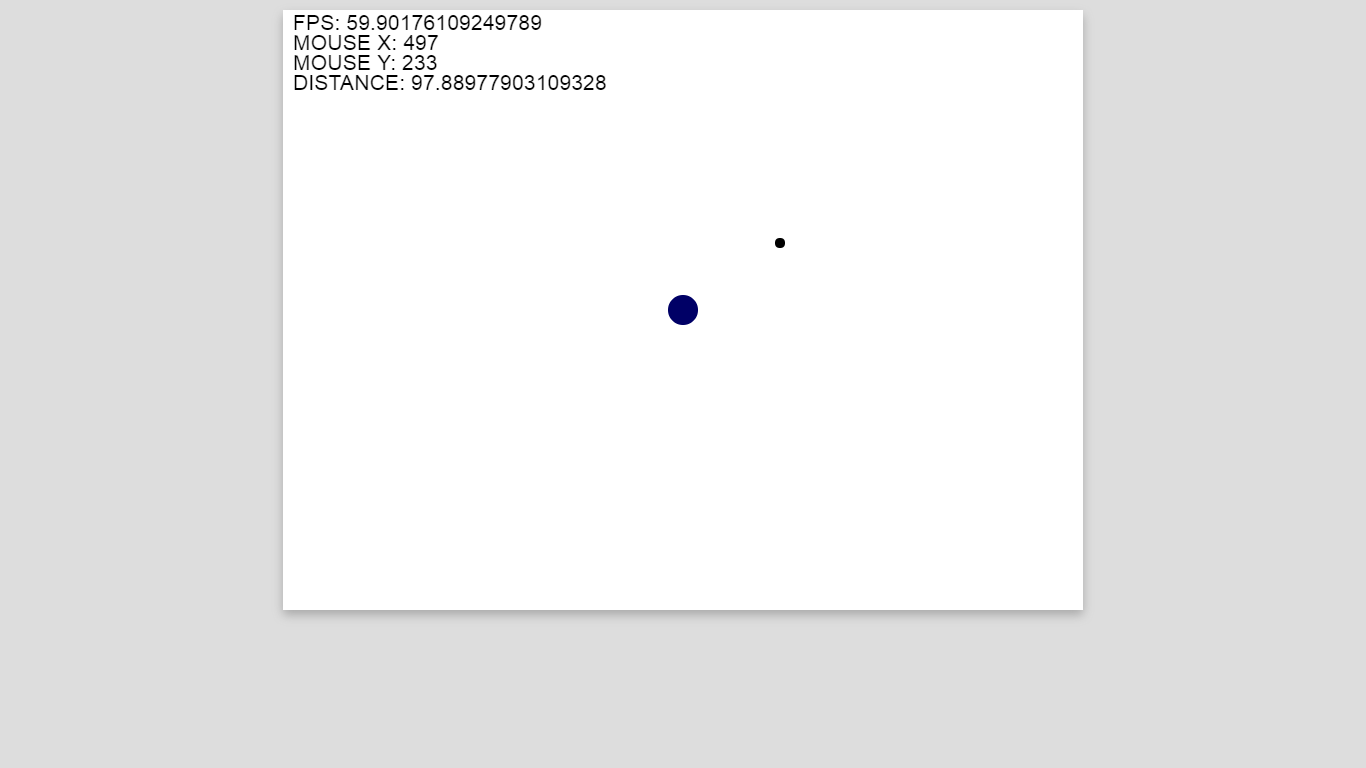
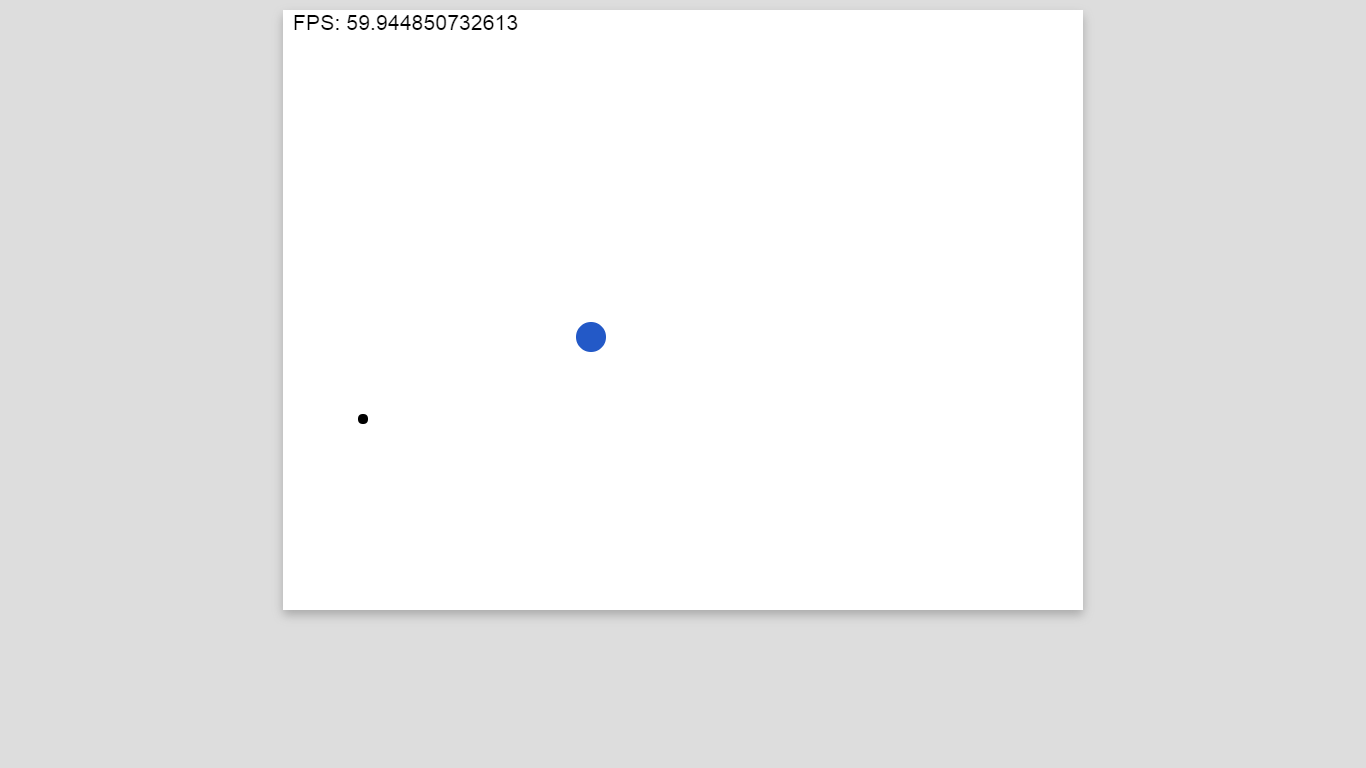
se agrego ejemplo de click

Changed region(s): [[0.2152, 0.0, 0.4612, 0.125], [0.3997, 0.4062, 0.4612, 0.4688], [0.4919, 0.375, 0.5227, 0.4375]]

diff --git a/example/click/game.js b/example/click/game.js
@@ -18,14 +18,25 @@
   var stage = new DEVGAME.Container()
   stage.setContext(context)
 
-  var center = new DEVGAME.entity.Circle(canvas.clientWidth/2, canvas.clientHeight/2, 15)
-  center.color = '#006'
+  var circle = new DEVGAME.entity.Circle(canvas.clientWidth/2, canvas.clientHeight/2, 15)
+  circle.create = function(){
+
+    var red   = DEVGAME.random(0, 255)
+    var green = DEVGAME.random(0, 255)
+    var blue  = DEVGAME.random(0, 255)
+    
+    this.color = DEVGAME.rgb(red, green, blue)
+
+    this.x = DEVGAME.random(canvas.clientWidth-this.radius*2)+this.radius
+    this.y = DEVGAME.random(canvas.clientHeight-this.radius*2)+this.radius
+
+  }
 
   var mouse = new DEVGAME.entity.Circle(mousex, mousey, 5)
 
   mouse.logic = function(){
-    this.x = mousex
-    this.y = mousey
+    this.x     = mousex
+    this.y     = mousey
 
     if (this.getX() < 0){
       this.x = 0
@@ -39,9 +50,21 @@
     if (this.getY() > canvas.clientHeight){
       this.y = canvas.clientHeight
     }
+
+    if (this.click === 1){
+
+      if (DEVGAME.collision.circleToCircle(this, circle)){
+        circle.create()
+      }
+      this.click = 0
+       
+    }
+
   }
 
-  stage.addChild(center, mouse)
+  stage.addChild(circle, mouse)
+
+  circle.create()
 
   function loop(timestamp){
 
@@ -74,9 +97,6 @@
     context.fillStyle = '#000'
     context.font      = 'normal 16pt Arial'
     context.fillText( 'FPS: '+ _fps, 10, 20 )
-    context.fillText( 'MOUSE X: ' + mouse.x, 10, 40 )
-    context.fillText( 'MOUSE Y: ' + mouse.y, 10, 60 )
-    context.fillText( 'DISTANCE: '+ DEVGAME.distance.circleToCircle(mouse, center), 10, 80 )
 
     exec(loop)
 
@@ -89,6 +109,10 @@
   document.addEventListener('mousemove', function(event){
     mousex = event.pageX - canvas.offsetLeft
     mousey = event.pageY - canvas.offsetTop
+  }, false)
+
+  canvas.addEventListener('mousedown',function(event){
+    mouse.click = event.which
   }, false)
 
 })(window, document, DEVGAME)

diff --git a/index.html b/index.html
@@ -282,13 +282,35 @@
                   </a>
                 </h4>
                 <p>
-                  distance circle to circle.
+                  Distance circle to circle.
                 </p>
               </figcaption>
             </figure>
           </div>
 
-
+          <div class="col-sm-4 col-xs-12">
+            <figure class="wow fadeInLeft animated" data-wow-duration="500ms" data-wow-delay="600ms">
+              <div class="img-wrapper">
+                <img src="example/click/cover.png" class="img-responsive" alt="" >
+                <div class="overlay">
+                  <div class="buttons">
+                    <a rel="gallery" target="_blank" class="fancybox" href="example/click/index.html">Demo</a>
+                    <a target="_blank" href="https://github.com/formatcom/devGameJS/tree/master/example/click">Code</a>
+                  </div>
+                </div>
+              </div>
+              <figcaption>
+                <h4>
+                  <a href="#">
+                    Click Me
+                  </a>
+                </h4>
+                <p>
+                  Click in circle.
+                </p>
+              </figcaption>
+            </figure>
+          </div>
 
         </div>
       </div>

diff --git a/devGame.js b/devGame.js
@@ -610,10 +610,12 @@ DEVGAME.distance = require('./distance');
 
 DEVGAME.random = require('./random');
 
+DEVGAME.rgb = require('./rgb');
+
 module.exports = DEVGAME;
 
 
-},{"./Container":1,"./collision":3,"./const":6,"./distance":8,"./entity":11,"./random":16,"./super":18}],16:[function(require,module,exports){
+},{"./Container":1,"./collision":3,"./const":6,"./distance":8,"./entity":11,"./random":16,"./rgb":18,"./super":19}],16:[function(require,module,exports){
 module.exports = function(min, max) {
   if (min == null) {
     min = 0;
@@ -623,6 +625,7 @@ module.exports = function(min, max) {
   }
   if (max === null) {
     max = min;
+    min = 0;
   }
   return ~~(Math.random() * (max - min + 1) + min);
 };
@@ -639,6 +642,21 @@ module.exports = function() {
 
 
 },{}],18:[function(require,module,exports){
+module.exports = function(red, green, blue) {
+  if (red == null) {
+    red = 0;
+  }
+  if (green == null) {
+    green = 0;
+  }
+  if (blue == null) {
+    blue = 0;
+  }
+  return 'rgb(' + red + ',' + green + ',' + blue + ')';
+};
+
+
+},{}],19:[function(require,module,exports){
 module.exports = function(self, method, args) {
   if (args == null) {
     args = [];

diff --git a/bin/rgb.js b/bin/rgb.js
@@ -1,0 +1,16 @@
+// Generated by CoffeeScript 1.10.0
+(function() {
+  module.exports = function(red, green, blue) {
+    if (red == null) {
+      red = 0;
+    }
+    if (green == null) {
+      green = 0;
+    }
+    if (blue == null) {
+      blue = 0;
+    }
+    return 'rgb(' + red + ',' + green + ',' + blue + ')';
+  };
+
+}).call(this);

diff --git a/bin/random.js b/bin/random.js
@@ -9,6 +9,7 @@
     }
     if (max === null) {
       max = min;
+      min = 0;
     }
     return ~~(Math.random() * (max - min + 1) + min);
   };

diff --git a/bin/index.js b/bin/index.js
@@ -16,6 +16,8 @@
 
   DEVGAME.random = require('./random');
 
+  DEVGAME.rgb = require('./rgb');
+
   module.exports = DEVGAME;
 
 }).call(this);
